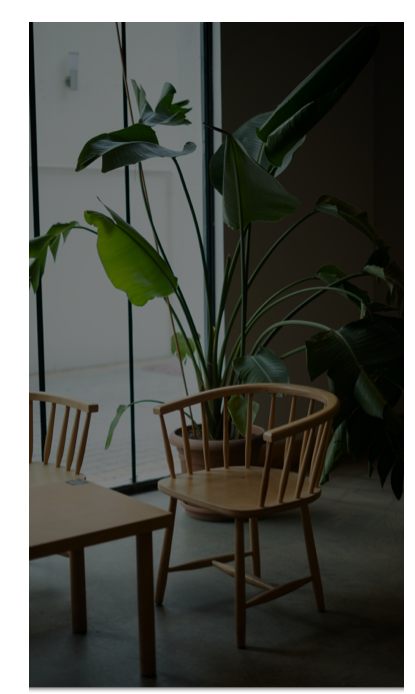
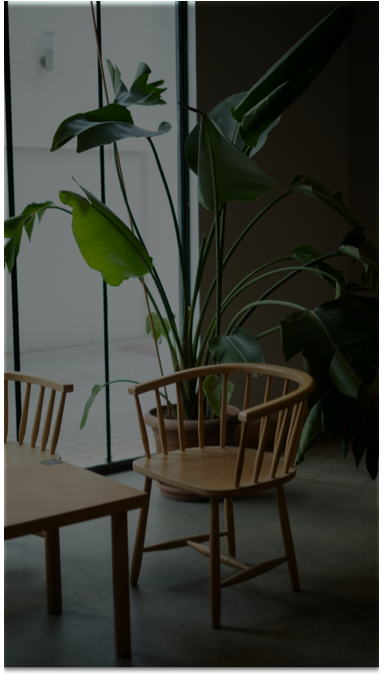
correct background image css
add div class bg-img for the header

diff --git a/src/index.html b/src/index.html
@@ -7,17 +7,17 @@
     <link rel="stylesheet" href="scss/main.scss" />
   </head>
   <body>
-    <header>
+    <header class="bg-img">
       <div class="container">
         <div class="row">
           <div class="col-12">
-            <img src="../src/img/header-img.png" alt="background cafe image" />
+ 
             <div class="title">
               <h1>Atas&café</h1>
             </div>
             <nav class="header menu">
-              <a href="#About">About</a>
-              <a href="#Menu">Menu</a>
+              <a href="#About">About</a> 
+              <a href="#Menu">Menu</a>   
               <a href="#Contact">Contact</a>
             </nav>
           </div>
@@ -55,40 +55,42 @@
             <h3 id="Drinks">Drinks</h3>
           </div>
         </div> 
-        <div class="row">
-          <div class="col-6 drink-name">
-            <ul>
-              <li>Expresso</li>
-              <li>Americano</li>
-              <li>Ice Coffee</li>
-              <li>Capuccino</li>
-              <li>Green Tea</li>
-              <li>Black tea</li>
-              <li>Olong Tea</li>
-              <li>Ginger Tea</li>
-              <li>Chai Latte</li>
-              <li>Matcha Latte</li>
-              <li>Water</li>
-              <li>Ginger Ale</li>
-              <li>Limonade</li>
-            </ul>
-          </div>
-          <div class="col-6 drink-price">
-            <ul>
-              <li>5.-</li>
-              <li>5.-</li>
-              <li>6,50.-</li>
-              <li>7,50.-</li>
-              <li>4,40.-</li>
-              <li>4,50.-</li>
-              <li>4,50.-</li>
-              <li>4,50.-</li>
-              <li>7,50.-</li>
-              <li>7,50.-</li>
-              <li>0.-</li>
-              <li>5.-</li>
-              <li>6,50.-</li>
-            </ul>
+        <div class="menu-container">
+          <div class="row">
+            <div class="col-6 drink-name">
+              <ul>
+                <li>Expresso</li>
+                <li>Americano</li>
+                <li>Ice Coffee</li>
+                <li>Capuccino</li>
+                <li>Green Tea</li>
+                <li>Black tea</li>
+                <li>Olong Tea</li>
+                <li>Ginger Tea</li>
+                <li>Chai Latte</li>
+                <li>Matcha Latte</li>
+                <li>Water</li>
+                <li>Ginger Ale</li>
+                <li>Limonade</li>
+              </ul>
+            </div>
+            <div class="col-6 drink-price">
+              <ul>
+                <li>5.-</li>
+                <li>5.-</li>
+                <li>6,50.-</li>
+                <li>7,50.-</li>
+                <li>4,40.-</li>
+                <li>4,50.-</li>
+                <li>4,50.-</li>
+                <li>4,50.-</li>
+                <li>7,50.-</li>
+                <li>7,50.-</li>
+                <li>0.-</li>
+                <li>5.-</li>
+                <li>6,50.-</li>
+              </ul>
+            </div>
           </div>
         </div>
         <div class="row title">

diff --git a/src/scss/main.scss b/src/scss/main.scss
@@ -12,7 +12,7 @@
 * {
   box-sizing: border-box;
   margin: 0;
-  padding: 0;
+  padding: 0px;
 }
 
 html {
@@ -30,8 +30,10 @@ body {
 
 a {
   color: inherit;
-  display: flex;
-  justify-content: center;
+}
+
+.bg-img {
+  background-image: url("../img/header-img.png");
 }
 
 img,
@@ -41,6 +43,17 @@ video {
   vertical-align: middle;
 }
 
+header {
+  height: 668px;
+}
+
+.menu {
+  display: flex;
+  flex-flow: column wrap;
+  text-align: center;
+  color: white;
+}
+
 h1 {
   font-family: "Museo Slab";
   font-size: 59px;
@@ -48,20 +61,28 @@ h1 {
   color: white;
   display: flex;
   justify-content: center;
+  padding-top: 115px;
+  padding-bottom: 106px;
 }
 
 h2 {
   font-family: "Museo Slab";
   font-size: 49px;
   font-weight: 600;
-  display: flex;
-  justify-content: center;
 }
+
 a {
   text-decoration: none;
   font-family: "Museo Slab";
-  font-size: 39px;
   font-weight: 600;
+  display: flex;
+  justify-content: center;
+}
+
+h3 {
+  font-family: "Museo slab";
+  font-size: 25px;
+  font-weight: 500;
 }
 
 ul {
@@ -78,13 +99,27 @@ ul {
   font-size: 19px;
 }
 
+.menu-container {
+  padding: 15px;
+}
+
 p {
   font-family: "Museo Slab";
   font-size: 24px;
+  padding-top: 36px;
+  padding-bottom: 36px;
 }
 
 img {
   width: 100%;
+}
+
+.button {
+  background: #d8d8d8;
+  border-radius: 25px;
+  font-size: 25px;
+  width: 110px;
+  height: 35px;
 }
 /* ====================================
 // base rules
